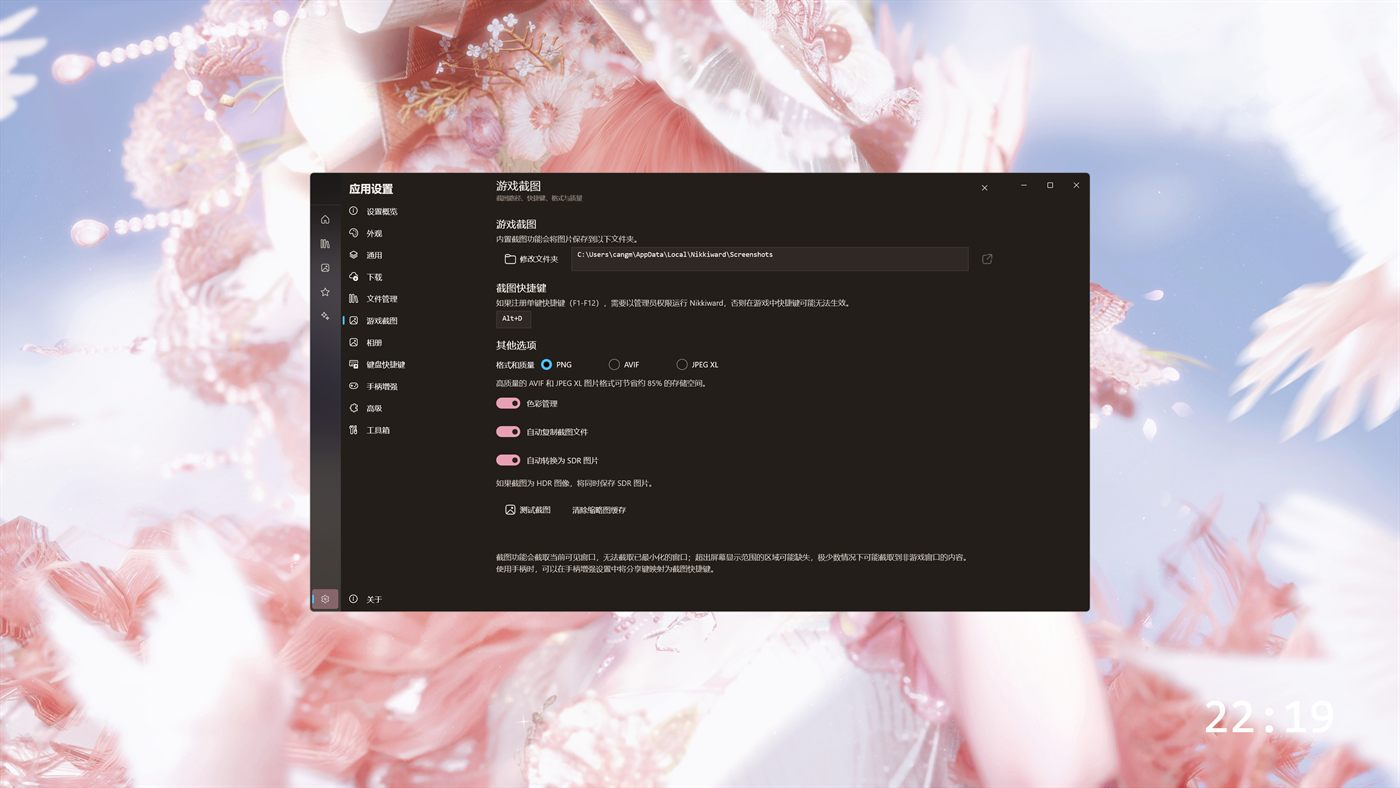
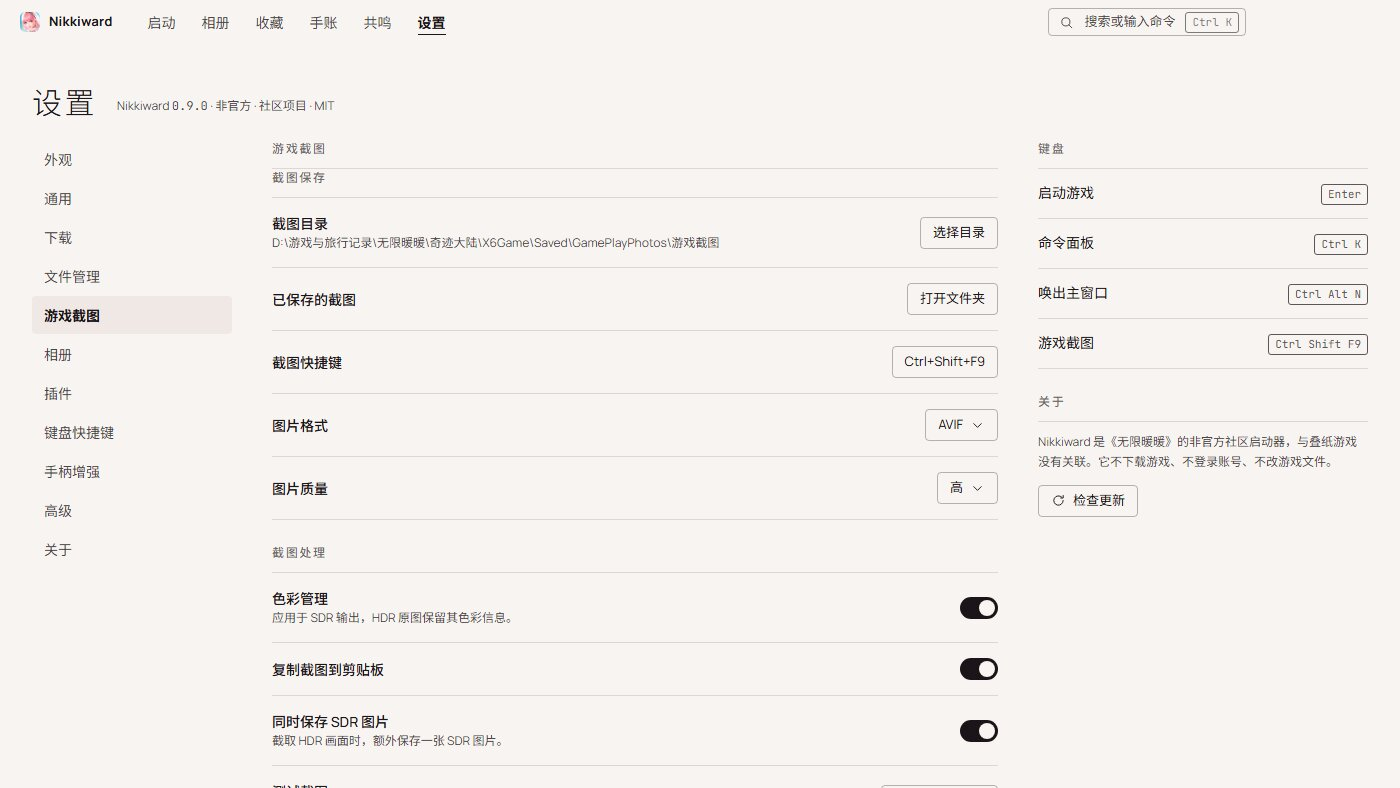
更新改版功能与实拍图，修复穿针引线窄屏导航

diff --git a/docs/index.html b/docs/index.html
@@ -295,6 +295,7 @@
     /* ————— 壁纸故事：原画 → 启动页 ————— */
     .duo { display: grid; grid-template-columns: 1fr 54px 1fr; align-items: center; gap: 16px; margin-top: 46px; }
     .duo-card { border-radius: 22px; padding: 14px; }
+    .skin-sheet { margin: 28px 0 0; }
     .duo-card img { display: block; width: 100%; height: auto; border-radius: 14px; border: 1px solid var(--glass-line-soft); }
     .duo-tags { display: flex; justify-content: space-between; align-items: baseline; gap: 10px; padding: 10px 6px 2px; }
     .duo-tags b { font-family: var(--serif); font-size: 15px; font-weight: 600; }
@@ -489,7 +490,7 @@
             <article class="card glass reveal f-3">
               <span class="num" lang="en">03 / GALLERY</span>
               <h3>相册与收藏</h3>
-              <p>游戏截图按日期浏览，收藏可加保护；原生页面保持只读，原图一个字节都不动。</p>
+              <p>按滤镜、服装部件、主色、本次游玩或连拍筛选，收藏可加保护。点照片进入工坊，导出的副本有独立页签。</p>
             </article>
             <article class="card glass reveal f-4">
               <span class="num" lang="en">04 / JOURNAL</span>
@@ -499,7 +500,7 @@
             <article class="card glass reveal f-5">
               <span class="num" lang="en">05 / WISHES</span>
               <h3>心愿共鸣记录</h3>
-              <p>导入后增量合并，重复同步不会覆盖已有历史。</p>
+              <p>可导出和导入 Nikkiward 自己的 JSON，按条目去重并保留已有历史。其他社区工具的格式暂不支持。</p>
             </article>
             <article class="card glass card-tint-c reveal f-6">
               <div>
@@ -508,7 +509,7 @@
                 <p>全局快捷键截图，PNG、AVIF、JPEG XL 随你选；HDR 画面自动另存一份 SDR，色彩管理和自动复制也在设置里说明白。</p>
               </div>
               <figure>
-                <img src="assets/shot-settings.jpg" alt="Nikkiward 游戏截图设置页：格式与质量、截图快捷键、HDR 转 SDR 等选项" loading="lazy" width="1400" height="788">
+                <img src="assets/shot-settings.jpg" alt="浅色游戏截图设置页，显示截图目录、快捷键、图片格式和截图处理开关" loading="lazy" width="1400" height="788">
                 <figcaption>截图设置页 · 实拍</figcaption>
               </figure>
             </article>
@@ -520,8 +521,9 @@
         <div class="shell">
           <p class="kicker reveal" lang="en">Your wallpaper</p>
           <h2 class="title reveal">把你喜欢的画，挂进启动页。</h2>
-          <p class="lede reveal">静态原画、视频，甚至 Wallpaper Engine 场景（需已安装桌面版 Wallpaper Engine），都可以成为启动器的背景。玻璃、文字与按钮会跟着画面换气质——下面两组，就是本页两套主题的出处。</p>
+          <p class="lede reveal">在「设置 → 外观」选择五套首页皮肤之一，界面会跟着背景取色。首页可打开最近拍摄、清单与提醒，也可在闲置时进入鉴赏模式。图片与视频都可作背景，Wallpaper Engine 实时场景目前只显示静态预览。</p>
 
+          <figure class="duo-card glass reveal skin-sheet"><img src="assets/shot-skins.jpg" alt="五套首页皮肤在海月与花信背景下的布局拼图" loading="lazy" width="1620" height="618"></figure>
           <div class="duo only-blossom">
             <div class="duo-card glass reveal">
               <img src="assets/hero-blossom.jpg" alt="《无限暖暖》原画：戴花帽的粉发少女与白鸽" loading="lazy" width="2400" height="1350">
@@ -529,7 +531,7 @@
             </div>
             <div class="duo-arrow glass reveal" aria-hidden="true">→</div>
             <div class="duo-card glass reveal">
-              <img src="assets/shot-ui-01.jpg" alt="Nikkiward 启动器实拍：花信壁纸下的浅色玻璃界面" loading="lazy" width="1600" height="901">
+              <img src="assets/shot-ui-01.jpg" alt="穿针引线首页，浅色花信背景下方是最近拍摄和启动按钮" loading="lazy" width="1600" height="901">
               <div class="duo-tags"><b>启动页 · 实拍</b><span>界面随画面变亮</span></div>
             </div>
           </div>
@@ -540,12 +542,12 @@
             </div>
             <div class="duo-arrow glass reveal" aria-hidden="true">→</div>
             <div class="duo-card glass reveal">
-              <img src="assets/shot-ui-02.jpg" alt="Nikkiward 启动器实拍：海月壁纸下的深色玻璃界面" loading="lazy" width="1600" height="901">
+              <img src="assets/shot-ui-02.jpg" alt="穿针引线首页，深色海月背景下方是最近拍摄和启动按钮" loading="lazy" width="1600" height="901">
               <div class="duo-tags"><b>启动页 · 实拍</b><span>界面随画面变深</span></div>
             </div>
           </div>
 
-          <p class="wall-note reveal">用右上角的 <b>花信 / 海月</b> 切换本页主题，就是启动器换壁纸时的样子。</p>
+          <p class="wall-note reveal">用右上角的 <b>花信 / 海月</b> 切换主题，可查看穿针引线首页的两种配色。</p>
         </div>
       </section>
 
@@ -558,6 +560,16 @@
             <figure class="art art-tall"><img src="assets/art-fae.jpg" alt="《无限暖暖》原画：花间的竖幅精灵装扮" loading="lazy" width="900" height="1600"></figure>
             <figure class="art"><img src="assets/art-gown.jpg" alt="《无限暖暖》原画：花境中的金色长裙" loading="lazy" width="1400" height="875"></figure>
             <figure class="art"><img src="assets/art-veil.jpg" alt="《无限暖暖》原画：金纱礼服" loading="lazy" width="1400" height="875"></figure>
+          </div>
+          <div class="feature-grid">
+            <article class="card glass f-6 reveal">
+              <div><h3>从相册到照片工坊</h3><p>按日期浏览，或搜索文件名、滤镜和服装部件。选中一张照片后，工坊会沿用当前的排列顺序。</p></div>
+              <figure><img src="assets/shot-gallery.jpg" alt="深色相册中的分类页签、筛选工具和按日期排列的示例照片" loading="lazy" width="1600" height="901"></figure>
+            </article>
+            <article class="card glass f-6 reveal">
+              <div><h3>照片工坊</h3><p>裁切、调色，为照片加上展签边框、记录分享码或遮住 UID。连拍可并排选片。修图记录留在应用数据目录；成图可以复制、设为首页背景，或导出到 Nikkiward 的导出目录，副本不带原照片元数据。</p></div>
+              <figure><img src="assets/shot-studio.jpg" alt="照片工坊里的花间人物照片、纸白展签和右侧参数面板" loading="lazy" width="1600" height="901"></figure>
+            </article>
           </div>
           <p class="art-note reveal">以上画面截取自《无限暖暖》，权利归其各自权利人，仅用于功能说明。</p>
         </div>
@@ -583,7 +595,7 @@
             </div>
             <div class="rule-card glass reveal">
               <span class="rule-mark" aria-hidden="true">✎</span>
-              <p><b>相册保持只读</b>照片原图不做修改；需要编辑或批处理时，交给你已安装的外部工具。</p>
+              <p><b>相册保持只读</b>工坊将修图记录保存在应用数据目录，编辑和导出都保留游戏原图。</p>
             </div>
           </div>
         </div>

diff --git a/Nikkiward/Web/skins/stitch/home.css b/Nikkiward/Web/skins/stitch/home.css
@@ -248,6 +248,14 @@ body.bare #win{left:0;top:0;margin:0;border-radius:0;box-shadow:none;transform:n
 @media(max-width:1190px){.recent{max-width:calc(100% - 790px)}.shots{overflow:hidden}.shot{min-width:0}}
 @media(max-width:1099px){.recent{display:none}}
 @media(max-width:780px){.brand{display:none}.nav{overflow-x:auto}.nav button{padding:0 8px;white-space:nowrap}.care{bottom:auto;top:64px}.hem .sp~span{display:none}.cluster{right:32px;max-width:calc(100% - 64px)}.switcher{width:100%}.switcher.short-window{right:32px;width:calc(100% - 64px)}}
+@media(max-width:576px){
+  .top{padding-left:16px}
+  .brand{display:flex;margin-right:0}
+  .nav{position:absolute;top:52px;inset-inline:16px;justify-content:space-around;gap:0;background:rgba(var(--fab),.94);border-radius:8px}
+  .nav button{padding-inline:4px;font-size:13px;letter-spacing:normal}
+  .care{top:96px}
+  #tack{display:none}
+}
 
 
 #bgName,#pName,.counted-task #taskText{min-width:0;overflow:hidden;text-overflow:ellipsis;white-space:nowrap}

diff --git a/Nikkiward/Web/skins/stitch/home.js b/Nikkiward/Web/skins/stitch/home.js
@@ -89,9 +89,9 @@ function sizeSeam() {
 new ResizeObserver(sizeSeam).observe($('.hole'));
 new ResizeObserver(sizeSeam).observe($('.brand'));
 window.mastheadBounds = () => {
-  const {left,right} = $('.nav').getBoundingClientRect();
+  const nav = $('.nav').getBoundingClientRect();
   const tool = $('#btnTools').getBoundingClientRect();
-  return [left,right,tool.left,tool.right];
+  return nav.top >= tool.bottom ? [0,0,tool.left,tool.right] : [nav.left,nav.right,tool.left,tool.right];
 };
 
 let photoKey;
